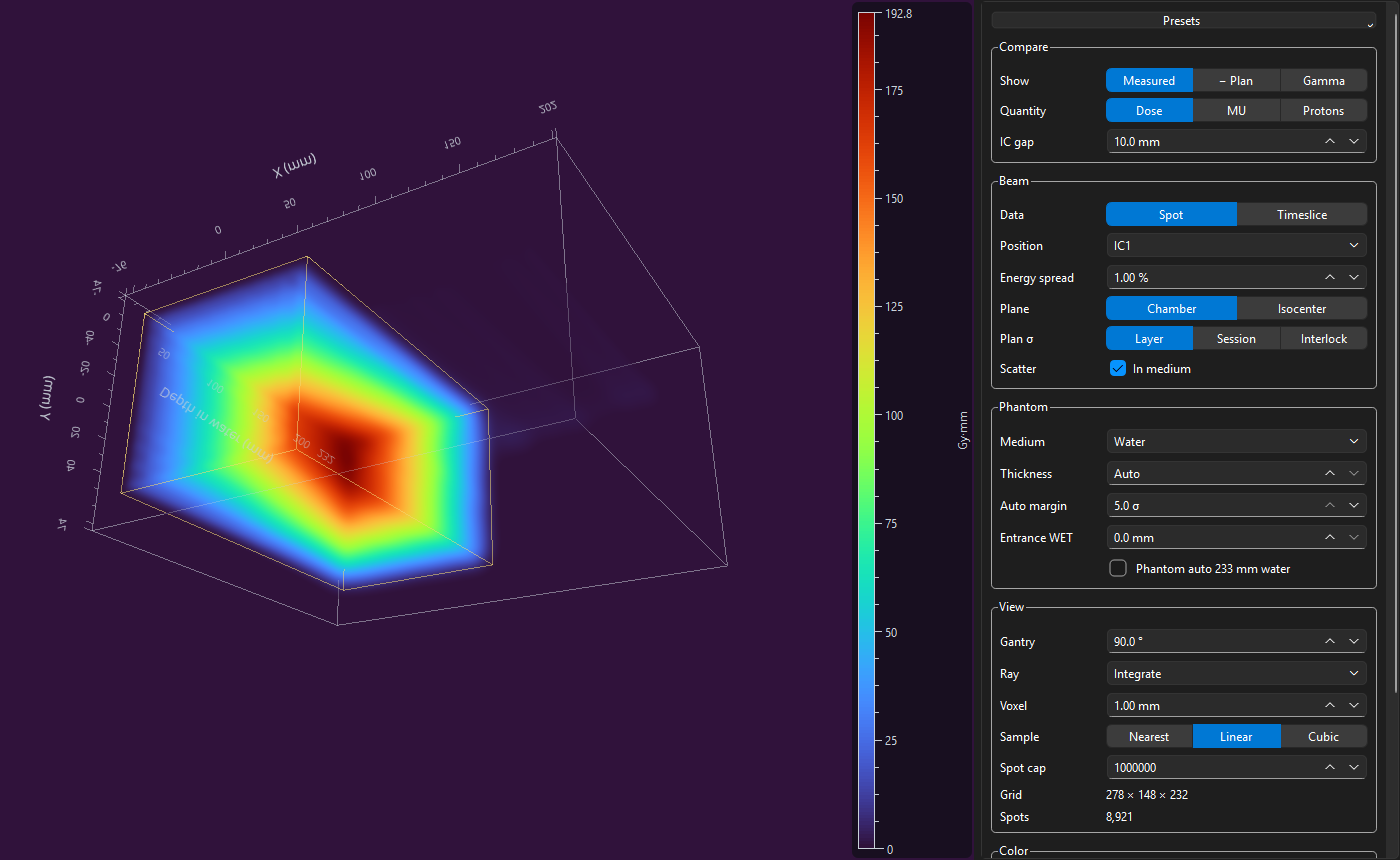
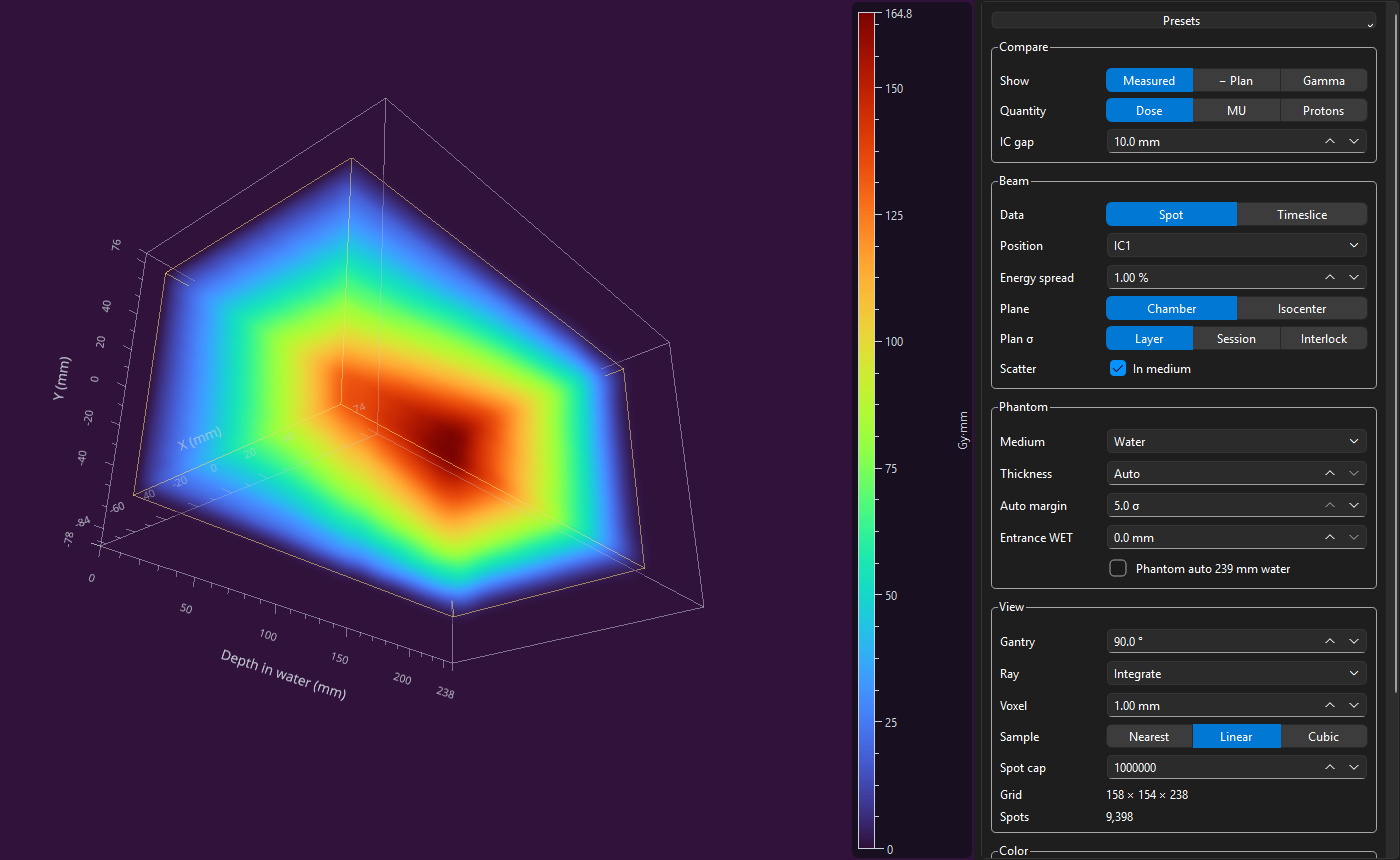
Recapture the dose volume screenshot from a readable three-quarter view.

diff --git a/scripts/capture_doc_screenshots.py b/scripts/capture_doc_screenshots.py
@@ -348,7 +348,7 @@ def _composite_vispy(window, pix):
     frame = _dose_frame(window)
     if frame.ndim != 3 or frame.shape[2] < 3:
         return pix
-    frame = np.ascontiguousarray(np.flipud(frame[:, :, :3]), dtype=np.uint8)
+    frame = np.ascontiguousarray(frame[:, :, :3], dtype=np.uint8)
     height, width, _ = frame.shape
     image = QImage(frame.tobytes(), width, height, 3 * width, QImage.Format.Format_RGB888).copy()
     canvas = window._vispy_canvas
@@ -381,6 +381,10 @@ def _capture_dose_volume(session_ids: list[str], output: Path, *, base_dir: str,
         lambda: window._scene._has_volume and "×" in window._grid_label.text(),
         timeout_ms=180_000,
     )
+    camera = window._scene._view.camera
+    camera.azimuth = 40.0
+    camera.elevation = -28.0
+    camera.roll = 0.0
     for _ in range(20):
         window._vispy_canvas.update()
         app.processEvents()
@@ -518,7 +522,7 @@ def main(only: list[str] | None = None) -> None:
         (
             "dose_volume/spot_ic1",
             lambda: _capture_dose_volume(
-                [SESSION_G3_A],
+                ["1093436476"],
                 OUT_DIR / "view-dose-volume.png",
                 base_dir=base_dir,
                 preset_id="spot_ic1",
